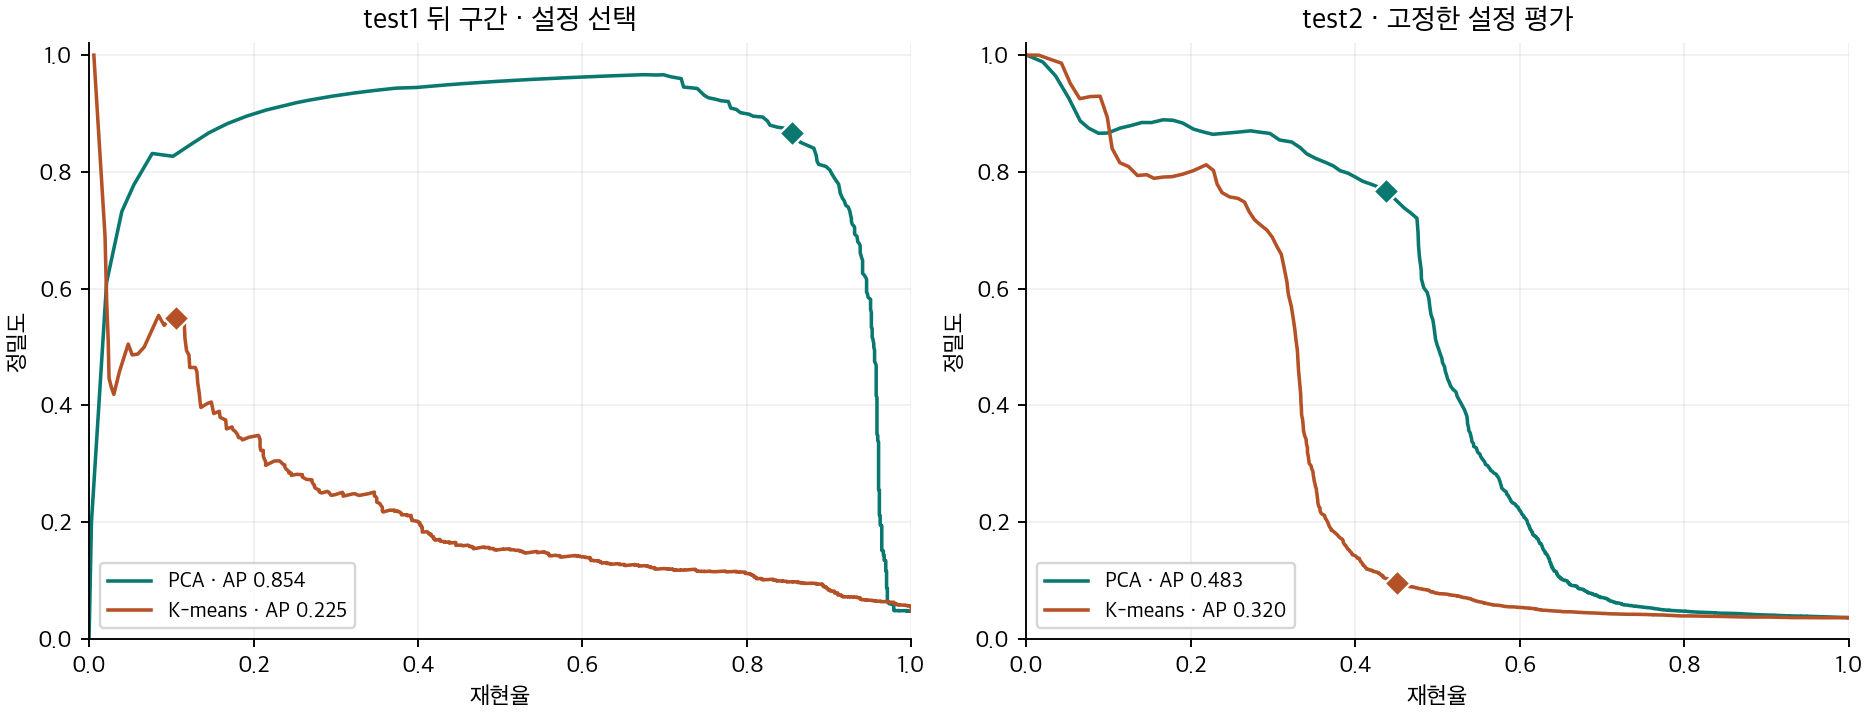
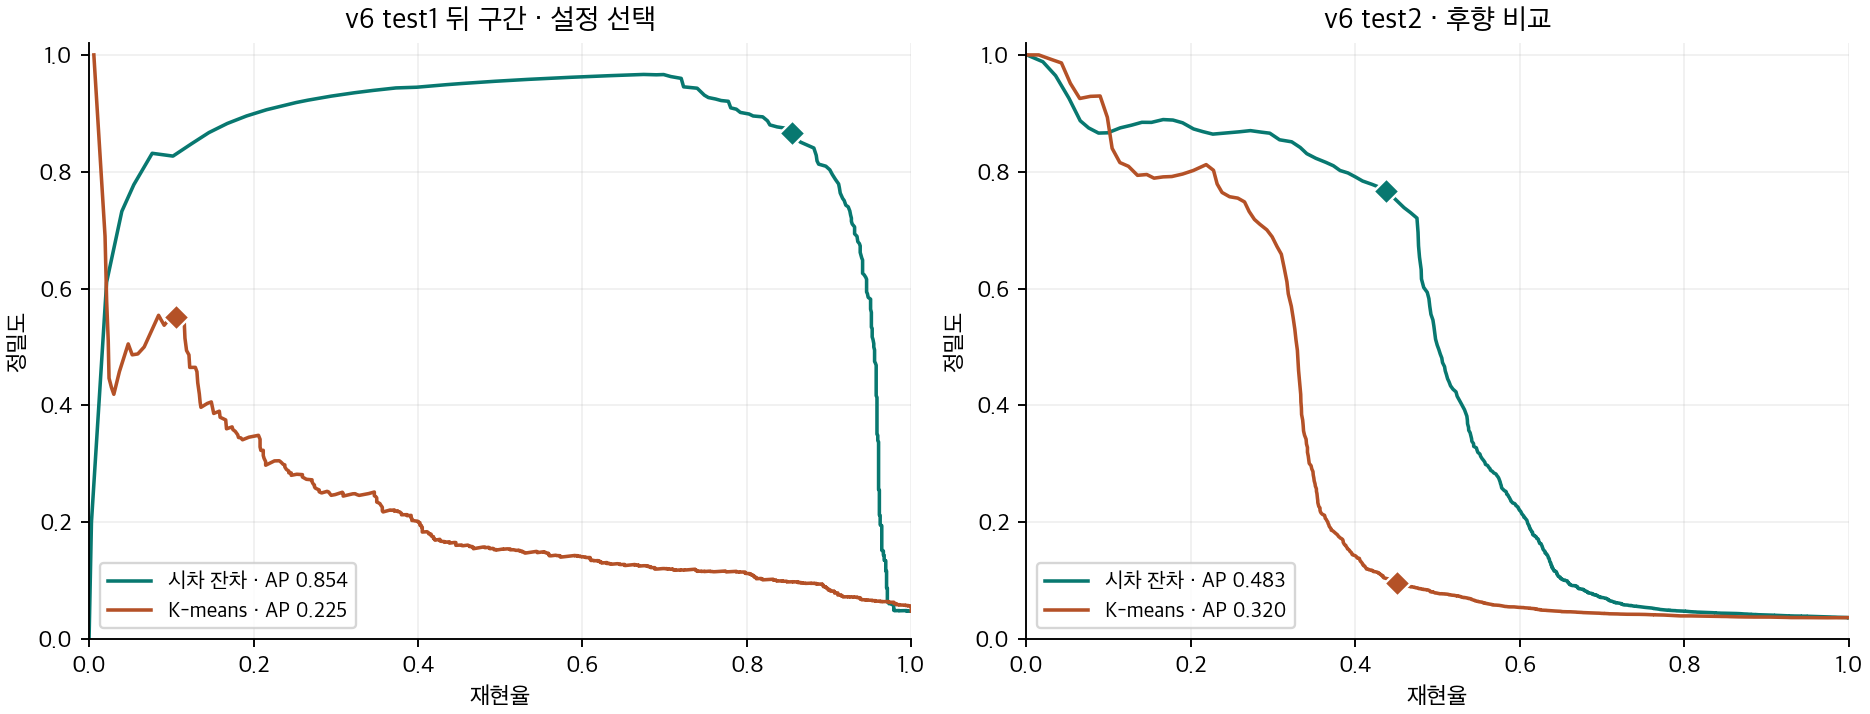
강의식 PCA와 v6 시차 잔차 탐지의 평가 및 재현 범위 정리

diff --git a/experiments/make_figures_detection.py b/experiments/make_figures_detection.py
@@ -1,5 +1,6 @@
-"""탐지 결과와 버전 비교표로 그래프를 만든다. 작성 지원: OpenAI Codex."""
+"""저장소에서 재현 가능한 이상 탐지 결과를 그린다. 작성 지원: OpenAI Codex."""
 import argparse
+import json
 from pathlib import Path
 
 import matplotlib
@@ -10,6 +11,7 @@ import numpy as np
 import pandas as pd
 
 COLORS = {"PCA": "#087870", "K-means": "#b45127"}
+V6_NAMES = {"PCA": "시차 잔차", "K-means": "K-means"}
 
 
 def configure_font():
@@ -25,9 +27,13 @@ def configure_font():
 
 
 def main():
-    """정밀도–재현율, 버전 지표, 개발 후보 선택 그래프를 각각 저장한다."""
+    """정밀도–재현율, v1·v6 비교, 개발 후보 선택 그래프를 저장한다."""
     parser = argparse.ArgumentParser(description=__doc__)
     parser.add_argument("--out", type=Path, default=Path("results/detection"))
+    parser.add_argument(
+        "--baseline-summary", type=Path, default=Path("HAI_Project/results/summary.json"),
+        help="원본 HAI_Project/run.py가 저장한 summary.json",
+    )
     args = parser.parse_args()
     folder = args.out / "figures"
     folder.mkdir(exist_ok=True)
@@ -35,13 +41,13 @@ def main():
     fig, axes = plt.subplots(1, 2, figsize=(11, 4.2), layout="constrained")
     for ax, filename, split, title in zip(
         axes, ["pr_development", "pr_evaluation"], ["development", "train1-2"],
-        ["test1 뒤 구간 · 설정 선택", "test2 · 고정한 설정 평가"],
+        ["v6 test1 뒤 구간 · 설정 선택", "v6 test2 · 후향 비교"],
     ):
         table = pd.read_csv(args.out / f"{filename}.csv")
         for name, color in COLORS.items():
             group = table[(table.split == split) & (table.model == name)]
             ax.plot(group.recall, group.precision, color=color,
-                    label=f"{name} · AP {group.AP.iloc[0]:.3f}")
+                    label=f"{V6_NAMES[name]} · AP {group.AP.iloc[0]:.3f}")
             ax.scatter(group.chosen_recall.iloc[0], group.chosen_precision.iloc[0],
                        marker="D", s=60, color=color, edgecolor="white", zorder=4)
         ax.set(title=title, xlabel="재현율", ylabel="정밀도", xlim=(0, 1), ylim=(0, 1.02))
@@ -50,20 +56,30 @@ def main():
     fig.savefig(folder / "precision_recall.png", dpi=170)
     plt.close(fig)
 
-    data = pd.read_csv(args.out / "version_history.csv")
-    fig, axes = plt.subplots(1, 2, figsize=(12, 5.2), layout="constrained")
+    original = json.loads(args.baseline_summary.read_text(encoding="utf-8"))
+    baseline = pd.DataFrame(original["detection"]).set_index("model")
+    evaluation = pd.read_csv(args.out / "evaluation.csv")
+    retrospective = evaluation[
+        (evaluation.policy == "train1-2") & (evaluation.split == "test2")
+    ].set_index("mode")
+    fig, axes = plt.subplots(1, 2, figsize=(11, 4.2), layout="constrained")
+    fig.suptitle("HAI test2 이상 탐지 · v1 고정 후 평가와 v6 후향 비교", fontsize=14)
     for ax, family in zip(axes, COLORS):
-        mask = data.name.str.contains("K-means")
-        part = data[~mask if family == "PCA" else mask]
-        positions = np.arange(len(part))
+        comparison = pd.DataFrame([baseline.loc[family], retrospective.loc[family]])
+        names = ["v1 재구성오차 PCA", "v6 시차 잔차"] if family == "PCA" else [
+            "v1 K-means (k=16)", "v6 K-means (k=32)",
+        ]
+        positions = np.arange(len(names))
         for delta, metric, label, color in [
             (-.24, "precision", "정밀도", "#295b9b"),
             (0, "recall", "재현율", "#b45127"),
             (.24, "f1", "F1", "#087870"),
         ]:
-            ax.barh(positions + delta, part[metric], height=.21, color=color, label=label)
-        ax.set(yticks=positions, yticklabels=part.name, xlim=(0, .95),
-               title=family, xlabel="초 단위 성능 · †는 평가 이후 정상 자료 포함")
+            bars = ax.barh(positions + delta, comparison[metric], height=.21, color=color, label=label)
+            ax.bar_label(bars, fmt="%.3f", fontsize=8, padding=3)
+        ax.set(yticks=positions, yticklabels=names, xlim=(0, 1),
+               title="재구성오차 PCA와 시차 잔차" if family == "PCA" else family,
+               xlabel="초 단위 성능")
         ax.invert_yaxis()
         ax.legend(loc="lower right", fontsize=8)
         ax.grid(axis="x", alpha=.18)
@@ -81,8 +97,10 @@ def main():
         ).iloc[0]
         ax.scatter(part.recall, part.precision, color="#dce5e8", s=12, label="전체 후보")
         ax.scatter(feasible.recall, feasible.precision, color="#8092a4", s=15, label="오경보 예산 충족")
-        ax.scatter(best.recall, best.precision, color=COLORS[family], marker="D", s=90, label="선정한 설정")
-        ax.set(title=f"{family} · {len(part):,}개 설정", xlabel="재현율", ylabel="정밀도",
+        chosen = "선정한 시차 잔차" if best.key == "PCA-multi" else f"선정한 {best.key}"
+        ax.scatter(best.recall, best.precision, color=COLORS[family], marker="D", s=90, label=chosen)
+        title = "재구성오차 PCA·시차 잔차" if family == "PCA" else family
+        ax.set(title=f"{title} · {len(part):,}개 설정", xlabel="재현율", ylabel="정밀도",
                xlim=(0, 1), ylim=(0, 1.02))
         ax.legend(loc="lower left", fontsize=8)
         ax.grid(alpha=.18)

diff --git a/detection/models.py b/detection/models.py
@@ -1,4 +1,4 @@
-"""PCA·K-means 공통 학습과 점수 API.
+"""재구성오차 PCA, 시차 잔차 탐지, K-means의 학습과 점수 API.
 
 기존 v6 실험의 계산 순서를 보존해 분리한 코드.
 작성 지원 및 모듈 분리: OpenAI Codex. 팀원의 독립 검토 범위는 docs/AI_USE_detection.md 참조.
@@ -25,6 +25,7 @@ def fit(ids, keys, dataset):
     model.update(projections={}, centers={}, seeds={})
     for key in keys:
         if key.startswith('PCA-0'):
+            # 누적 설명분산 기준으로 상위 성분을 남기는 강의식 PCA다.
             rank = int(np.searchsorted(cumulative, float(key.split('-')[1])) + 1)
             model['projections'][key] = vectors[:, ::-1][:, :rank]
         elif key == 'KM-original':
@@ -40,7 +41,8 @@ def fit(ids, keys, dataset):
 
 
 def raw(model, x, key):
-    """선택한 PCA 또는 K-means 모델의 이상 점수를 반환한다."""
+    """동결된 모델 키에 해당하는 이상 점수를 반환한다."""
+    # PCA-multi는 기존 결과와 호환되는 시차 잔차 탐지의 키다.
     if key == 'PCA-multi':
         return anomaly(x, model)
     z = standardize(x, model)

diff --git a/detection/pca.py b/detection/pca.py
@@ -1,6 +1,6 @@
-"""PCA 고유분해 기반 조건부 잔차 탐지.
+"""정규화된 역공분산을 이용한 시차 예측 잔차 탐지.
 
-기존 v6 실험의 계산 순서를 보존해 분리한 코드.
+전체 고유쌍을 사용하며 모든 센서 차원을 유지한다. 기존 v6 계산 순서를 보존한다.
 작성 지원 및 모듈 분리: OpenAI Codex. 팀원의 독립 검토 범위는 docs/AI_USE_detection.md 참조.
 """
 import numpy as np
@@ -52,6 +52,7 @@ def fit_normal(normal, ids):
             beta = np.linalg.solve(xx + np.eye(len(mean)) * count * 0.0001, xy)
             residual = [x[delay:] - x[:-delay] @ beta for x in fit]
         covariance = np.cov(np.concatenate(residual), rowvar=False)
+        # 전체 고유쌍으로 정규화된 역공분산을 계산한다.
         values, vectors = np.linalg.eigh(covariance)
         precision = vectors / (np.maximum(values, 0) + 0.0001) @ vectors.T
         parts.append((delay, beta, precision / np.sqrt(np.diag(precision))))

diff --git a/experiments/run_detection.py b/experiments/run_detection.py
@@ -1,8 +1,8 @@
-"""PCA·K-means v6 실험의 탐지 부분을 독립 실행한다.
+"""재구성오차 PCA·시차 잔차·K-means 후보를 비교한 v6 탐지 실험을 실행한다.
 
 작성 지원 및 분리: OpenAI Codex. 원 실험과 수치 동일성을 확인한 별도 추가 기능이다.
 저장소 최상위에서 python -m experiments.run_detection --stage develop/final 실행.
-기존 HAI_Project/run.py의 원본 재실행은 그대로 제공된다.
+v6의 test2는 여러 버전에서 확인한 후향 비교 자료다. v1은 HAI_Project/run.py로 재실행한다.
 """
 import argparse
 import json

diff --git a/docs/DETECTION_README.md b/docs/DETECTION_README.md
@@ -1,65 +1,58 @@
-# PCA와 K-means 탐지 파트
+# 이상 탐지 실험
 
-이 코드는 원본 HAI_Project를 바탕으로 개선한 v6 실험 중 탐지 부분을 분리한 것이다. 두 탐지기를 각각 평가하고, 최종 경보 모델로 PCA 기반 시계열 잔차 탐지를 채택한다. 2026-11-27 main에 병합된 공통 모듈 PR #2, commit 22b92fe18650893f0b12a00a04e70ebaa1586cc8에서 실행을 확인했다.
+과제의 강의 알고리즘으로는 **v1 재구성오차 PCA**와 **v1 K-means**를 보고한다. v6는 같은 HAI 23.05 데이터에서 시차 예측 잔차와 추가 정상 학습 자료를 시험한 후속 실험이다.
 
-원본의 폴더 분리 작업에 비해 알고리즘과 설정이 달라졌으므로 feat/detection-v6 PR에서 개선 범위를 검토한다. 원본 동작은 HAI_Project/run.py로 비교할 수 있다.
+| 역할 | 실험과 점수 | 강의노트 |
+|---|---|---|
+| 강의식 PCA | v1 `PCA-0.99`. 정상 센서의 공분산을 고유분해하고, 누적 설명분산 99%를 충족하는 상위 32개 성분에 투영한다. 남은 재구성오차를 센서 차원 수로 나눈다. v6 개발 후보 `PCA-0.99`와 `PCA-0.995`도 이 방식을 사용한다. | `DM_06-Dimension Reduction.pdf` 58–59, 61쪽 |
+| 강의식 K-means | v1 `K-means-16`. 정상 표본을 가장 가까운 중심에 할당하고 중심을 평균으로 갱신한다. 가장 가까운 중심까지의 제곱거리가 이상 점수다. | `DM_05-Clustering.pdf` 35–36쪽 |
+| v6 시차 잔차 탐지 | 0·1·10초 시차로 현재 표준화 센서 값 및 시차 예측 잔차를 계산한다. 잔차 공분산의 전체 고유쌍으로 정규화된 역공분산을 구하고, 이를 써서 각 센서의 조건부 잔차를 표준화한다. 각 시차에서 절댓값이 큰 세 잔차의 `log1p` 평균을 사용한 뒤, 정상 분위수로 보정한 시차 점수 중 최댓값을 취한다. | 역공분산을 활용하는 마할라노비스형 점수의 변형이며 전 차원을 유지한다. |
 
-## 파일과 공통 모듈
+쪽 번호는 PDF의 첫 페이지를 1쪽으로 센다. 기존 결과 파일 및 동결 설정과 호환되도록 v6 시차 잔차 모델 키 `PCA-multi`와 출력의 계열 라벨 `PCA`를 유지한다. 그래프에서는 선택된 모델을 **시차 잔차**로 표기한다.
 
-| 파일 | 내용 |
+## 실험 설정
+
+| 평가 행 | 사전에 정한 설정 |
 |---|---|
-| detection/pca.py | 시차 0·1·10초 조건부 잔차, 고유분해, 정상 99분위 점수 보정 |
-| detection/kmeans.py | 원본 Lloyd와 k-means++, 거리 계산 |
-| detection/models.py | 파일별 정상 60% 적합·40% 보정, 여러 seed 중 정상 inertia 선택 |
-| detection/postprocess.py | 과거만 쓰는 지수평활, 연속 초과 확인, 유지 |
-| detection/selection.py, settings.py | 후보 그리드와 오경보 제약 및 PR 곡선 계산 |
-| detection/datasets.py, data_hashes.json | 단계별 원자료 읽기·SHA-256·초/분 레이블 대응 검사 |
-| detection/metrics.py | 초 단위 P/R/F1·AP와 사건 검출·경보 지연·오경보 횟수 및 시간 |
-| experiments/run_detection.py | fetch, develop, final 실행 |
-| experiments/make_figures_detection.py | 탐지 전용 그래프 3개 |
-| tests/test_detection.py | 분리 시점에 추가한 회귀 검사 4개 |
+| v1 재구성오차 PCA | 누적 설명분산 99%, train1 보정 97.5분위 |
+| v1 K-means | k=16, train1 보정 95분위 |
+| v6 시차 잔차 | 시차 0·1·10초, 지수 평활 span 10, 확인 1초, 유지 6초, 정상 보정 99.8분위 × 0.95 |
+| v6 K-means | k=32, 일반 제곱거리, 지수 평활 span 10, 확인 1초, 유지 6초, 정상 보정 95분위 × 0.90, 최종 seed 331 |
 
-common.config의 버전·seed·적합 비율과 common.preprocess의 fit_scaler·transform을 사용한다. 확대 학습에서는 train1과 train2 각 파일 앞 60%를 합쳐 Scaler를 적합한다. 공통 함수에 fit_fraction=1.0으로 전달하는 배열 자체가 두 정상 파일에서 먼저 분리한 적합 구간이다.
+v1은 train1 앞 구간에서 적합하고 뒤에서 보정한 뒤, test1에서 설정을 확정하고 test2로 평가했다. v6 코드에서 개발 명령은 train1과 test1만 읽는다. test1 앞 구간의 1,088개 후보와 뒤 구간의 모델별 배수 7개를 비교한다. 정상 1시간당 오경보 1회와 오탐 60초를 초과한 정도가 가장 작은 설정을 먼저 고르고, 그다음 초 단위 F1과 사건 재현율의 조화평균을 최대화한다. 최종 실행은 train1·2 각 파일 앞 60%로 재적합하고 뒤 40%에서 임계값을 다시 보정한다. train1 단독 잔차 탐지도 대조군으로 실행한다.
 
-common.data.load_and_check는 다섯 원본 파일을 한꺼번에 읽는다. 개발에서 test2를 읽지 않도록 탐지 데이터 어댑터는 파일별로 검증한다. 추가 train2·train4는 고정 해시와 센서 열 및 초 단위 연속성을 확인한다.
-
-## 실행
-
-명령은 저장소 최상위에서 실행한다. Python 3.13.2, NumPy 2.2.3, pandas 2.3.3 환경에서 원 실험과 수치 일치를 확인했다. 팀의 다른 환경에서 재실행한 기록은 별도로 추가한다.
-
-~~~sh
-python -m pip install -r requirements-detection.txt
-python -m experiments.run_detection --stage fetch
-python -m unittest discover tests
-python -m experiments.run_detection --stage develop
-python -m experiments.run_detection --stage final
-python -m experiments.make_figures_detection
-~~~
-
-fetch는 공식 고정 commit에서 train1·2·4, test1·2 및 레이블을 받는다. develop은 train1과 test1만 읽는다. final은 train1~2로 정상 모델을 재적합한 뒤 고정 설정으로 test2와 정상 train4를 평가한다. train3는 이 코드의 학습 범위에 포함되지 않는다. 원자료 사용량은 약 600MB다.
-
-별도 폴더 결과를 쓰려면 develop과 final에 같은 --out 경로를 준다. 코드를 바꾸면 설정 파일의 해시 검사에서 차이를 확인한다. 숫자에 영향을 주는 변경 후에는 개발부터 다시 수행하고 이전 결과와 구분해 기록한다. 기존 test2는 여러 버전에서 반복 확인했으므로 후속 비교 데이터로 기술한다.
-
-## 선택된 설정과 결과
-
-| 모델 | 설정 |
-|---|---|
-| PCA | 시차 0·1·10초 최대 점수, span 10, 확인 1초, 유지 6초, 보정 99.8분위 × 0.95 |
-| K-means | k=32, 일반 제곱거리, span 10, 확인 1초, 유지 6초, 보정 95분위 × 0.90, 최종 seed 331 |
-
-test1 앞 구간의 1,088개 후보와 뒤 구간의 단독 모델별 배수 7개를 같은 오경보 제약에서 비교했다. 선정 기준은 정상 1시간당 오경보 1회와 오탐 시간 60초 초과 최소, 초 단위 F1과 사건 재현율의 조화평균 최대 순이다. 전체 설정은 selection.json, 재적합 후 보정 임계값은 applied_settings.json에 있다. 실제 경보 기준은 보정 임계값에 모드 배수를 곱한다.
+## 결과와 평가 범위
 
 | test2 모델 | 정밀도 | 재현율 | F1 | 사건/38 | 오경보/정상h | 오경보 초/정상h |
 |---|---:|---:|---:|---:|---:|---:|
-| 원본 PCA | .779 | .290 | .423 | 13 | .373 | 11.24 |
-| v6 PCA | .767 | .437 | .557 | 21 | .681 | 18.10 |
-| 원본 K-means | .378 | .305 | .338 | 29 | 29.984 | 68.40 |
+| v1 재구성오차 PCA | .779 | .290 | .423 | 13 | .373 | 11.24 |
+| v1 K-means | .378 | .305 | .338 | 29 | 29.984 | 68.40 |
+| v6 시차 잔차 | .767 | .437 | .557 | 21 | .681 | 18.10 |
 | v6 K-means | .096 | .450 | .158 | 28 | 19.671 | 580.29 |
 
-PCA는 원본의 13건을 유지하고 8건을 더 찾았다. 정밀도 하락과 오경보 증가는 남는다. K-means의 최신 설정은 원본보다 F1과 오경보 지속시간이 나빠 최종 경보 결정에 채택하지 않았다.
+**v1은 test2를 설정 고정 후 평가에 사용한 기준 실험이다. v6의 test2 결과는 후향 비교다.** v6 실행 단계에서 설정을 동결했어도 v2–v6 실험 과정에서 같은 test2를 반복 확인했다. 따라서 F1 .557과 사건 21건은 연구에서 이미 본 데이터에 대한 관측치다. 일반화 성능을 추정하려면 새 공격 레이블을 포함한 독립 평가 자료가 필요하다.
 
-train4 정상 55시간에서 v6 PCA의 오경보는 .327회/h와 7.29초/h였다. v5의 train1~2 PCA는 test2에서 24건을 찾았고 F1 .539, 오경보 1.022회/h와 41.68초/h였다. v6는 그중 3건을 놓치는 대신 오경보와 정밀도를 개선했다. 모든 지표의 최고값이 한 설정에 모이지 않는다.
+이 후향 비교에서 v6 시차 잔차는 v1 PCA의 13건을 모두 포함해 8건을 더 찾았고, 초 단위 정밀도는 .779에서 .767로 내려갔으며 오경보 시간은 11.24에서 18.10초/h로 늘었다. v6 K-means는 오경보 횟수가 감소했지만 F1은 .338에서 .158로 하락했고 오경보 지속시간은 68.40에서 580.29초/h로 늘었다. v6 시차 잔차의 정상 train4 결과는 .327회/h, 7.29초/h였다. train4는 이미 살펴본 정상 자료이므로 이 수치는 해당 운전 구간의 오경보를 설명한다.
 
-version_history.csv에는 과거 대표 운영점도 수록했다. v5의 train1~3 행은 test2 이후의 정상 기록을 포함한 후향 비교다. v2 K-means는 3초 지속을 확인한 뒤 첫 초까지 표시하는 과거 평가 방식이므로 온라인 경보와 지연 해석에 이 조건을 적는다.
+test2의 초 단위 레이블 정렬은 같은 분 안에서 행 순서가 보존됐다는 가정을 따른다.
 
-PCA 기반 잔차 탐지는 공분산 고유분해에 선형 시계열 예측을 결합했다. 수업의 주요 알고리즘 인정 범위는 팀이 강의 자료와 대조한다. test2 초 단위 레이블은 분 안에서 행 순서가 보존됐다는 가정을 따른다. AI 사용 내역은 AI_USE_detection.md에 있다.
+## 재현 방법
+
+저장소 최상위에서 아래 명령을 실행한다. 다운로드는 고정 커밋의 train1·2·4, test1·2 및 레이블을 받는다. 필요한 원자료는 약 600MB다.
+
+```sh
+python -m pip install -r requirements-detection.txt
+python -m experiments.run_detection --stage fetch
+python -m unittest discover -s tests
+python HAI_Project/run.py --data data --out results_before
+python -m experiments.run_detection --stage develop
+python -m experiments.run_detection --stage final
+python -m experiments.make_figures_detection --baseline-summary results_before/summary.json
+```
+
+- **v1**은 새로 생성한 `results_before/summary.json`의 `detection`에서 확인한다. 그래프 실행 시 `--baseline-summary`를 생략하면 저장소의 원본 `HAI_Project/results/summary.json`을 사용한다.
+- **v6**는 `results/detection/evaluation.csv`에서 검증한다. 선택한 설정과 재적합 후 임계값은 `selection.json`과 `applied_settings.json`에 기록한다. 실제 경보선은 해당 정상 임계값에 모델별 배수를 곱한 값이다. 별도 폴더에서 재실행하려면 개발·최종 평가·그래프에 같은 `--out` 값을 전달한다.
+- **비교 그래프**는 v1 요약과 v6 평가 CSV에서 직접 만들어진다. 보고 수치는 저장소에서 실행 가능한 v1·v6에 한정한다. 재실행과 저장된 결과의 대조 범위는 [검증 기록](../results/detection/verification.json)에 있다.
+- **공통 모듈**에서 `common.config`와 `common.preprocess`를 사용한다. v6 데이터 어댑터는 파일별 해시와 센서 열 및 초 단위 연속성을 확인해 개발 단계에서 test2를 읽지 않는다. 코드나 프로토콜 문서가 바뀌면 동결된 해시가 달라지므로 개발부터 다시 실행한다.
+
+[AI 사용 기록](AI_USE_detection.md)

diff --git a/docs/PR_detection.md b/docs/PR_detection.md
@@ -1,18 +1,8 @@
-# [이상 탐지] PCA·K-means v6 코드와 성능 비교 추가
+## PR #4 · 이상 탐지 리뷰 반영
 
-정상 운전 자료를 확대하고 시계열 조건부 잔차를 사용하는 PCA 탐지 결과를, main의 공통 모듈 위에서 재실행할 수 있도록 추가했습니다. 기존 원본 실행과 구별되는 개선 버전입니다.
+- **강의 알고리즘**은 v1 재구성오차 PCA(`PCA-0.99`, 상위 32개 성분, test2 F1 .423)와 v1 K-means(k=16, F1 .338)로 제시합니다. 강의노트 기준은 PCA가 DM_06 PDF 58–59, 61쪽이고 K-means가 DM_05 PDF 35–36쪽입니다.
+- **v6 추가 실험**의 `PCA-multi`는 전체 차원의 역공분산을 활용한 **시차 예측 잔차 탐지**로 명시했습니다. 후향 비교인 test2에서 F1 .557, 사건 검출 21/38, 정밀도 .767, 오경보 18.10초/정상h였습니다. v1 PCA는 13/38, 정밀도 .779, 오경보 11.24초/정상h였습니다. v6 K-means는 F1 .158, 오경보 580.29초/정상h였습니다.
+- **평가 범위**를 구분했습니다. v1은 설정 고정 후 test2를 평가했습니다. v6 개발 실행은 test2를 읽지 않지만, 여러 실험 버전에서 test2를 확인했으므로 v6 수치는 후향 비교로 보고합니다. 독립적인 공격 일반화 검증에는 새 레이블 자료가 필요합니다.
+- **저장소에서 재현 가능한 결과**만 비교표와 그래프에 넣었습니다. v1은 `HAI_Project/run.py`, v6는 `experiments/run_detection.py`로 다시 실행할 수 있습니다. 두 실행 결과를 대조한 범위와 AI 사용 기록도 업데이트했습니다.
 
-- common.config와 common.preprocess를 사용하는 detection/ 모듈, 개발·최종 실행 스크립트, 검사 및 그래프를 추가했습니다.
-- 설정은 train1 및 test1에서 정하고, train2 추가 정상 적합 후 고정 분위수로 test2와 train4를 평가합니다.
-- 원본 대비 PCA의 test2 F1 .423→.557, 사건 검출 13→21/38입니다. 정밀도 .779→.767, 오경보 시간 11.24→18.10초/h입니다.
-- 최신 K-means는 F1 .338→.158 및 오경보 지속시간 증가가 있어 비교 결과로 보고하고 최종 경보는 PCA를 채택했습니다.
-- test2는 이전 실험에서도 사용한 후속 비교 데이터입니다.
-- 파일별 AI 지원과 팀원 검토 기록 양식은 docs/AI_USE_detection.md에 있습니다.
-
-실행 방법은 docs/DETECTION_README.md, 로컬 검증 상세는 results/detection/verification.json에 있습니다. 동결 개발 설정, 최종 지표, 사건표 및 PR 좌표를 분리 전 결과와 대조했습니다.
-
-팀원이 추가할 내용
-
-- 본인 GitHub 계정에서 재실행한 환경과 결과
-- 실제 검토·수정한 파일과 알고리즘
-- 강의의 PCA 주요 알고리즘 인정 범위 확인
+[실행 방법과 결과](https://github.com/chajinhee/dm-team3/blob/feat/PCA-Kmeans/docs/DETECTION_README.md) · [재현 검증](https://github.com/chajinhee/dm-team3/blob/feat/PCA-Kmeans/results/detection/verification.json) · [AI 사용 기록](https://github.com/chajinhee/dm-team3/blob/feat/PCA-Kmeans/docs/AI_USE_detection.md)
